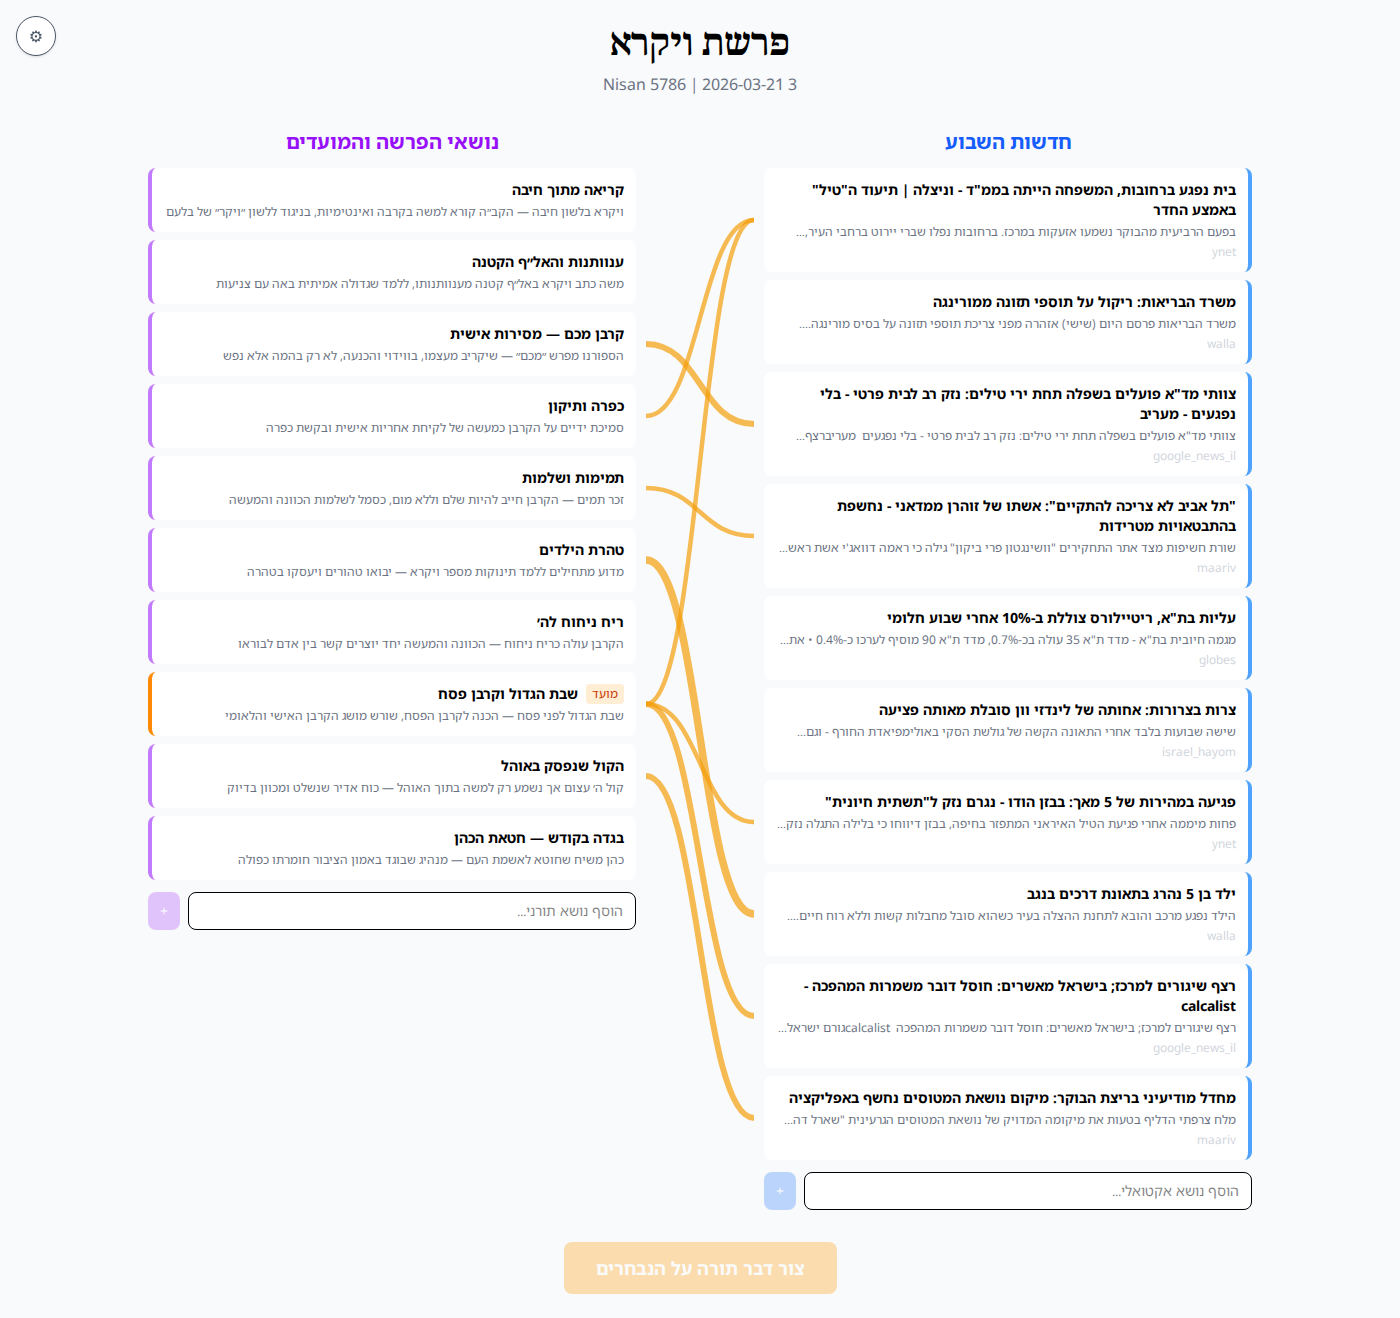
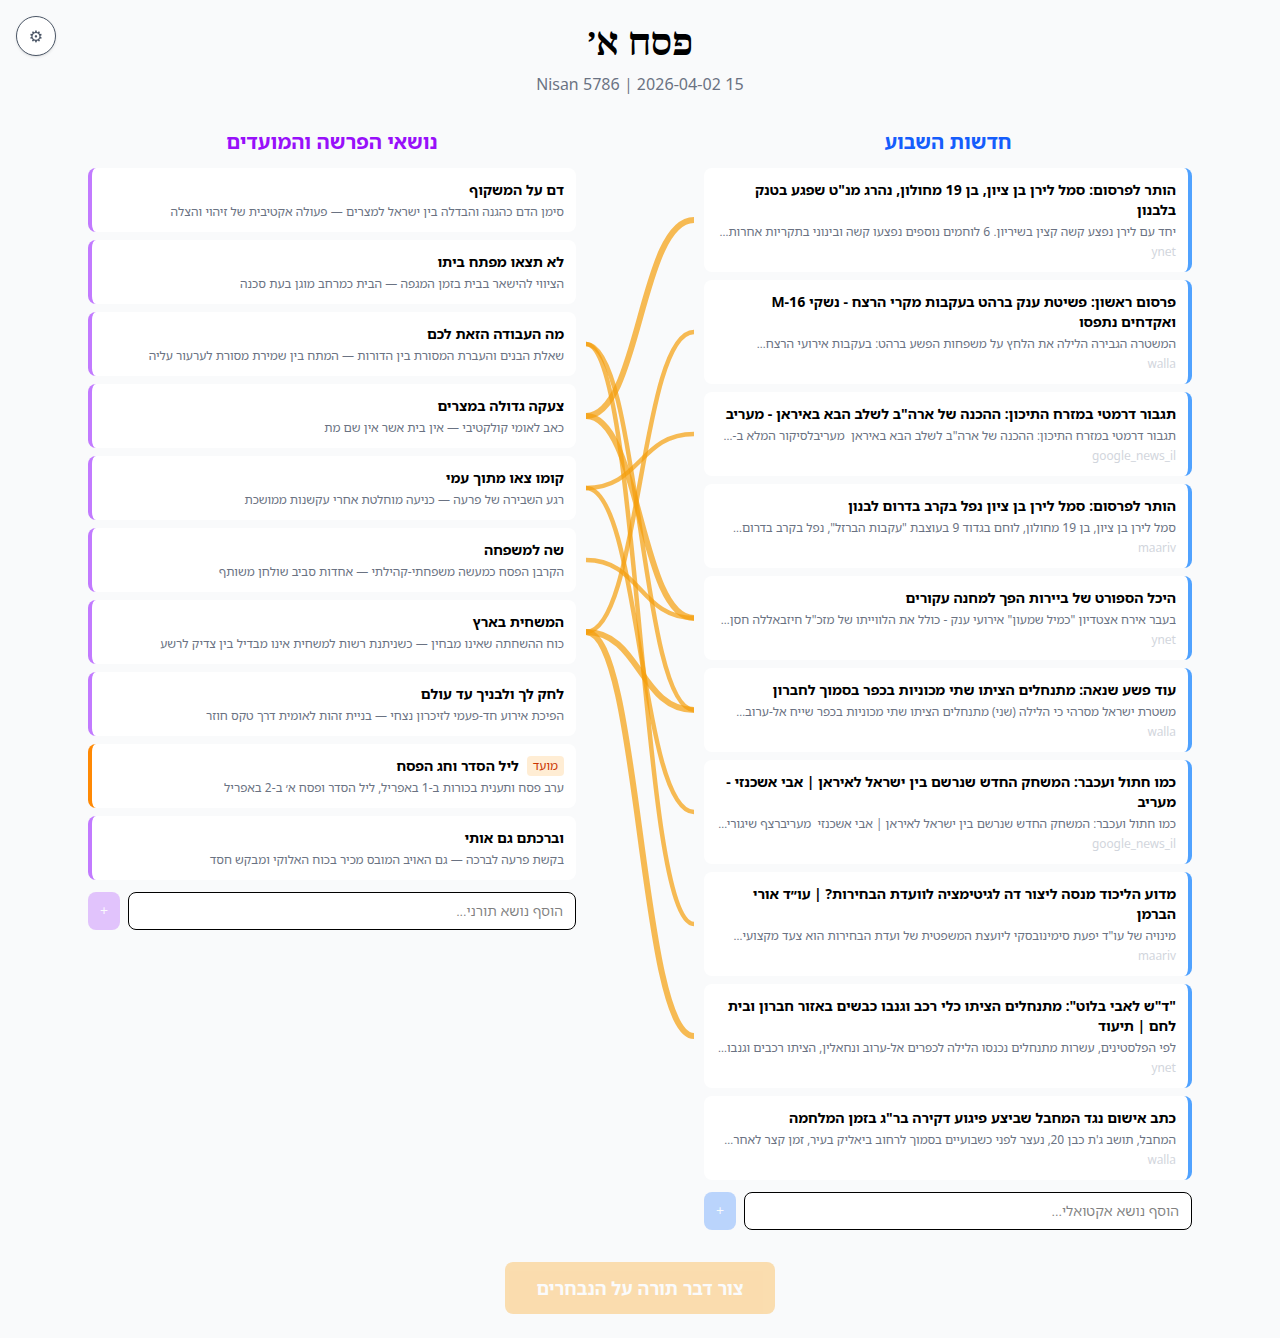
docs: add screenshots for flow builder, rhetoric, and mefarshim panel

diff --git a/README.md b/README.md
@@ -51,10 +51,25 @@
 
 ![Selection Active](docs/screenshots/02-selection-active.png)
 
-### הגדרות מפרשים
-60+ מפרשים ב-5 קטגוריות — פשט, חסידות, מוסר, מדרש, ביקורת המקרא:
+### רטוריקה ואסטרטגיות
+בחירת אסטרטגיות רטוריות ויצירת פאנצ'ליין:
 
-![Settings](docs/screenshots/03-settings.png)
+![Rhetoric Strategies](docs/screenshots/03-rhetoric-strategies.png)
+
+### בונה מהלך — Flow Builder
+מהלך הדרשה עם 5 שלבים, פס זמן צבעוני, ומעברים:
+
+![Flow Builder](docs/screenshots/04-flow-builder.png)
+
+### שלב מורחב — עריכה חופשית
+כל שלב ניתן לעריכה: כותרת, תיאור, מהלך רטורי, מפרשים, מעבר, זמן:
+
+![Section Expanded](docs/screenshots/05-flow-section-expanded.png)
+
+### ארון מפרשים
+חיפוש מפרשים לפי קטגוריות ושיוך לשלבים:
+
+![Mefarshim Panel](docs/screenshots/06-mefarshim-panel.png)
 
 ## ארכיטקטורה
 
